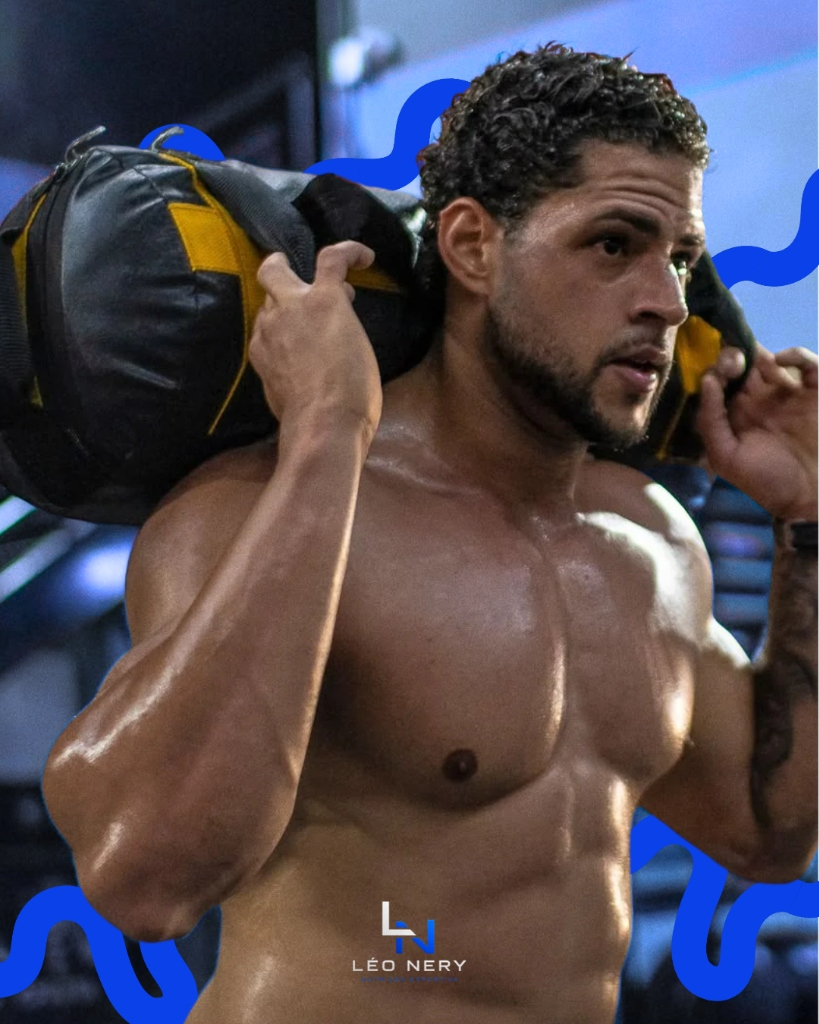
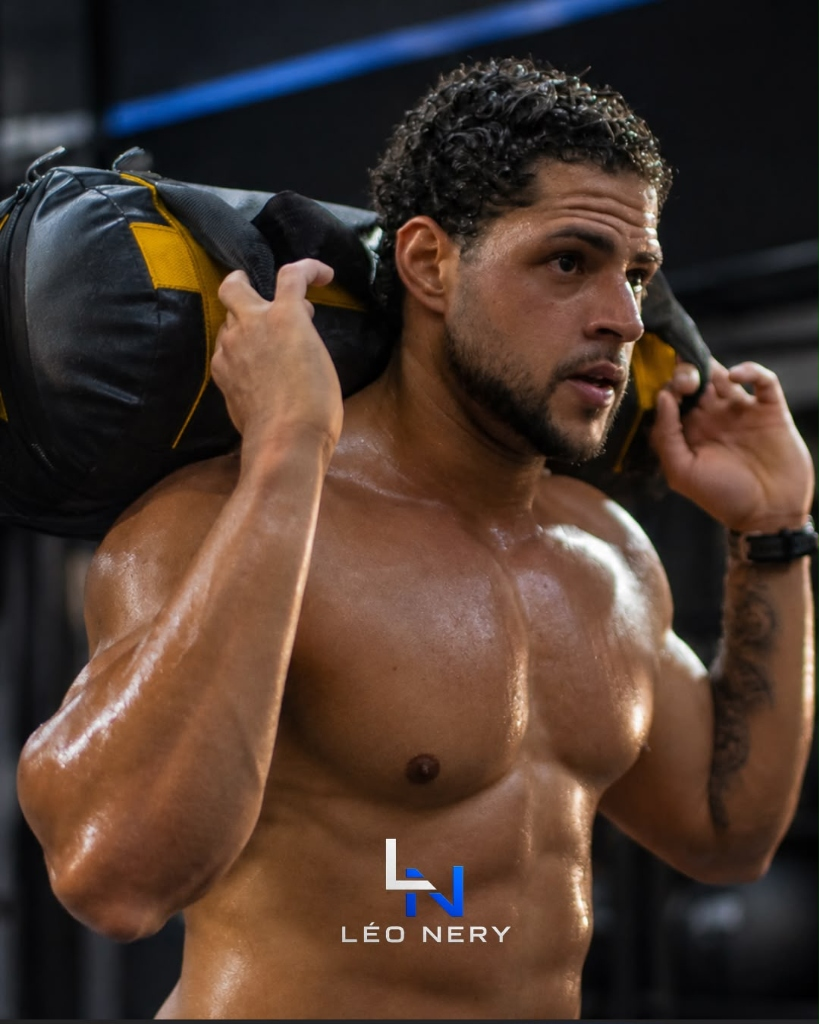
feat(copy,media): atualizar fotos de hero e quem sou eu e migrar tom de voz para atendimento direto

diff --git a/public/index.html b/public/index.html
@@ -30,7 +30,7 @@
     <div class="container header-inner">
       <a class="brand" href="#inicio" aria-label="Léo Nery Nutrição Esportiva, voltar ao início"><img class="brand-logo"
           src="/assets/images/logo.png" width="512" height="512" alt="Léo Nery Nutrição Esportiva"></a>
-      <nav class="desktop-nav" aria-label="Navegação principal"><a href="#sobre">O TIME</a><a
+      <nav class="desktop-nav" aria-label="Navegação principal"><a href="#sobre">QUEM SOU EU</a><a
           href="#metodo">METODOLOGIA</a><a href="#resultados">RESULTADOS</a><a href="#planos">PLANOS</a><a
           href="#faq">DÚVIDAS</a></nav>
       <div class="header-actions"><a class="header-whatsapp" href="#contato" data-whatsapp-context="header"
@@ -39,7 +39,7 @@
       <button class="menu-toggle" type="button" aria-label="Abrir menu" aria-controls="mobile-menu"
         aria-expanded="false"><span></span><span></span></button>
     </div>
-    <nav id="mobile-menu" class="mobile-nav" aria-label="Navegação móvel" hidden><a href="#sobre">O TIME</a><a
+    <nav id="mobile-menu" class="mobile-nav" aria-label="Navegação móvel" hidden><a href="#sobre">QUEM SOU EU</a><a
         href="#metodo">METODOLOGIA</a><a href="#resultados">RESULTADOS</a><a href="#planos">PLANOS</a><a
         href="#faq">DÚVIDAS</a><a href="#contato">FORMULÁRIO DE CONTATO</a><a href="#contato"
         data-whatsapp-context="header" target="_blank" rel="noopener noreferrer">FALAR NO WHATSAPP <span
@@ -84,7 +84,7 @@
       <div class="container about-grid">
         <div class="about-media reveal from-left">
           <div class="image-frame"><img src="/assets/images/sobre-1.jpg" width="819" height="1024"
-              alt="Léo Nery em treino com halteres nos ombros" loading="lazy"><span class="image-index">LÉO NERY /
+              alt="Léo Nery em treino de afundo com halteres nos ombros" loading="lazy"><span class="image-index">LÉO NERY /
               001</span></div>
           <div class="about-badge"><span class="method-step-icon" aria-hidden="true"><svg viewBox="0 0 24 24"
                 class="ic">
@@ -94,7 +94,7 @@
           </div>
         </div>
         <div class="about-copy reveal from-right">
-          <span class="section-kicker">01 / QUEM SOMOS</span>
+          <span class="section-kicker">01 / QUEM SOU EU</span>
           <h2>AJUDO VOCÊ A<br>TRANSFORMAR SEU<br><em>FÍSICO E SUA</em><br>PERFORMANCE<span>.</span></h2>
           <p class="lead">Acompanhamento 100% individualizado e humanizado. Sem terceirização, sem automação. Você fala diretamente comigo durante todo processo!</p>
           <div class="about-pillars">
@@ -111,7 +111,7 @@
                 resposta e evolução.</span>
             </div>
           </div>
-          <a class="btn btn-primary about-cta" href="#metodo">CONHEÇA NOSSA METODOLOGIA <span class="cta-icon"
+          <a class="btn btn-primary about-cta" href="#metodo">CONHEÇA MINHA METODOLOGIA <span class="cta-icon"
               aria-hidden="true"></span></a>
         </div>
       </div>
@@ -124,7 +124,7 @@
             <h2>PASSO A PASSO DE<br><span class="method-heading-muted">COMO TUDO FUNCIONA</span></h2>
           </div>
           <div class="section-head-aside">
-            <p>Veja, de forma resumida, como funciona o nosso acompanhamento.</p><button type="button"
+            <p>Veja, de forma resumida, como funciona o meu acompanhamento.</p><button type="button"
               class="text-button" data-open-assessment>INICIAR PRÉ-AVALIAÇÃO <span class="cta-icon"
                 aria-hidden="true"></span></button>
           </div>
@@ -544,12 +544,11 @@
       <div class="container">
         <div class="plans-heading reveal"><span class="section-kicker">04 / PLANOS E INVESTIMENTO</span>
           <div class="plans-heading-grid">
-            <h2>ESCOLHA O PERÍODO<br>DO SEU <em>ACOMPANHAMENTO.</em></h2>
-            <p>Compare os períodos e escolha aquele que combina com o seu momento. Nossa equipe pode ajudar você a tomar
-              a melhor decisão.</p>
+            <h2>ESCOLHA O PLANO IDEAL<br>PARA SUA <em>EVOLUÇÃO.</em></h2>
+            <p>Valores referente ao acompanhamento on-line.<br>Consultas presenciais solicite o orçamento no meu WhatsApp.</p>
           </div>
         </div>
-        <div class="plan-scroll-hint" aria-hidden="true">DESLIZE PARA COMPARAR →</div>
+        <div class="plan-scroll-hint" aria-hidden="true">COMPARE OS PLANOS E ENCONTRE O IDEAL PARA VOCÊ →</div>
         <div class="plans-grid">
           <article class="plan-card reveal" data-plan-months="1" data-plan-value="R$ 385,00"><span class="method-bignum"
               aria-hidden="true">01</span>
@@ -643,9 +642,9 @@
       <div class="container faq-grid">
         <div class="faq-intro reveal"><span class="section-kicker">05 / DÚVIDAS FREQUENTES</span>
           <h2>DÚVIDAS<br><em>FREQUENTES.</em></h2>
-          <p>Se a sua dúvida não estiver aqui, fale diretamente com nossa equipe.</p>
+          <p>Se a sua dúvida não estiver aqui, fale diretamente comigo.</p>
           <div class="faq-support-card"><span>AINDA COM DÚVIDAS?</span>
-            <p>Converse com nossa equipe pelo WhatsApp antes de escolher seu plano.</p><a class="btn btn-primary"
+            <p>Converse diretamente comigo pelo WhatsApp antes de escolher seu plano.</p><a class="btn btn-primary"
               href="#contato" data-whatsapp-context="faq" target="_blank" rel="noopener noreferrer">FALAR NO WHATSAPP
               <span class="cta-icon" aria-hidden="true"></span></a>
           </div>
@@ -655,8 +654,8 @@
             <h3><button class="faq-question" type="button" aria-expanded="false" aria-controls="faq-answer-1"
                 id="faq-question-1">Como funciona o acompanhamento?<span aria-hidden="true">+</span></button></h3>
             <div class="faq-answer" id="faq-answer-1" role="region" aria-labelledby="faq-question-1" hidden>
-              <p>A equipe começa entendendo seu contexto, sua rotina e seu objetivo. Depois do contato inicial,
-                apresenta o formato disponível e orienta os próximos passos.</p>
+              <p>Começo entendendo seu contexto, sua rotina e seu objetivo. Depois do contato inicial,
+                apresento o formato disponível e vou te orientar nos próximos passos.</p>
             </div>
           </div>
           <div class="faq-item">
@@ -671,7 +670,7 @@
             <h3><button class="faq-question" type="button" aria-expanded="false" aria-controls="faq-answer-3"
                 id="faq-question-3">Em quanto tempo recebo meu plano?<span aria-hidden="true">+</span></button></h3>
             <div class="faq-answer" id="faq-answer-3" role="region" aria-labelledby="faq-question-3" hidden>
-              <p>O prazo depende da modalidade e da confirmação das informações necessárias. Consulte a equipe para
+              <p>O prazo depende da modalidade e da confirmação das informações necessárias. Fale diretamente comigo para
                 receber o prazo aplicável ao seu acompanhamento.</p>
             </div>
           </div>
@@ -679,7 +678,7 @@
             <h3><button class="faq-question" type="button" aria-expanded="false" aria-controls="faq-answer-4"
                 id="faq-question-4">Como devo tirar as fotos?<span aria-hidden="true">+</span></button></h3>
             <div class="faq-answer" id="faq-answer-4" role="region" aria-labelledby="faq-question-4" hidden>
-              <p>Se fotografias forem necessárias, a equipe enviará orientações específicas de enquadramento, iluminação
+              <p>Se fotografias forem necessárias, vou te orientar com instruções específicas de enquadramento, iluminação
                 e privacidade pelo canal de atendimento.</p>
             </div>
           </div>
@@ -687,7 +686,7 @@
             <h3><button class="faq-question" type="button" aria-expanded="false" aria-controls="faq-answer-5"
                 id="faq-question-5">O que está incluso no acompanhamento?<span aria-hidden="true">+</span></button></h3>
             <div class="faq-answer" id="faq-answer-5" role="region" aria-labelledby="faq-question-5" hidden>
-              <p>Os detalhes podem variar conforme o formato disponível. Antes de contratar, confirme com a equipe os
+              <p>Os detalhes podem variar conforme o formato disponível. Antes de contratar, confirme diretamente comigo os
                 itens, canais de suporte e condições do período escolhido.</p>
             </div>
           </div>
@@ -695,23 +694,23 @@
             <h3><button class="faq-question" type="button" aria-expanded="false" aria-controls="faq-answer-6"
                 id="faq-question-6">Os planos são individualizados?<span aria-hidden="true">+</span></button></h3>
             <div class="faq-answer" id="faq-answer-6" role="region" aria-labelledby="faq-question-6" hidden>
-              <p>A proposta é considerar seu contexto, sua disponibilidade e seu objetivo antes de orientar o caminho.
-                Confirme a modalidade adequada diretamente com o time.</p>
+              <p>Minha estratégia de acompanhamento é considerar seu contexto, sua disponibilidade e seu objetivo antes de orientar o caminho.
+                Confirme a modalidade adequada falando diretamente comigo.</p>
             </div>
           </div>
           <div class="faq-item">
             <h3><button class="faq-question" type="button" aria-expanded="false" aria-controls="faq-answer-7"
                 id="faq-question-7">Como são realizados os ajustes?<span aria-hidden="true">+</span></button></h3>
             <div class="faq-answer" id="faq-answer-7" role="region" aria-labelledby="faq-question-7" hidden>
-              <p>A necessidade e a frequência de ajustes dependem do formato contratado e da sua evolução. A equipe
-                explicará o processo antes do início.</p>
+              <p>A necessidade e a frequência de ajustes dependem do formato contratado e da sua evolução. Vou te orientar
+                e explicar todo o processo antes do início.</p>
             </div>
           </div>
           <div class="faq-item">
             <h3><button class="faq-question" type="button" aria-expanded="false" aria-controls="faq-answer-8"
                 id="faq-question-8">Posso renovar meu acompanhamento?<span aria-hidden="true">+</span></button></h3>
             <div class="faq-answer" id="faq-answer-8" role="region" aria-labelledby="faq-question-8" hidden>
-              <p>Converse com a equipe perto do encerramento do período para verificar disponibilidade, continuidade e
+              <p>Fale diretamente comigo perto do encerramento do período para verificar disponibilidade, continuidade e
                 condições vigentes.</p>
             </div>
           </div>
@@ -719,7 +718,7 @@
             <h3><button class="faq-question" type="button" aria-expanded="false" aria-controls="faq-answer-9"
                 id="faq-question-9">Quais são as formas de pagamento?<span aria-hidden="true">+</span></button></h3>
             <div class="faq-answer" id="faq-answer-9" role="region" aria-labelledby="faq-question-9" hidden>
-              <p>PIX e cartão de crédito. Parcelamentos por link podem ter juros; confirme o valor final com a equipe
+              <p>PIX e cartão de crédito. Parcelamentos por link podem ter juros; confirme o valor final diretamente comigo
                 antes de concluir.</p>
             </div>
           </div>
@@ -740,8 +739,7 @@
       <div class="container contact-grid">
         <div class="contact-intro reveal"><span class="section-kicker">06 / FAÇA PARTE</span>
           <h2>PRONTO PARA<br>O PRÓXIMO<br><em>PASSO?</em></h2>
-          <p>Conte um pouco sobre você e seu objetivo. Nossa equipe entrará em contato para ajudar você a dar o próximo
-            passo.</p>
+          <p>Conte um pouco sobre você e seu objetivo. Fale diretamente comigo para dar o próximo passo no meu acompanhamento.</p>
           <div class="contact-note"><span class="note-mark" aria-hidden="true">✦</span> INICIE SUA EVOLUÇÃO COM UMA
             CONVERSA.</div>
           <div class="contact-secondary-actions"><a class="btn btn-outline" href="#contato"
@@ -752,7 +750,7 @@
         </div>
         <div class="contact-form-panel reveal">
           <form id="contact-form" novalidate>
-            <div class="form-heading"><span>FORMULÁRIO DE CONTATO</span><strong>FALE COM O TIME <span
+            <div class="form-heading"><span>FORMULÁRIO DE CONTATO</span><strong>VAMOS COMEÇAR SUA EVOLUÇÃO <span
                   class="heading-mark" aria-hidden="true">✦</span></strong></div>
             <div class="field-row">
               <div class="field"><label for="name">NOME COMPLETO <span>*</span></label><input id="name" name="name"
@@ -865,7 +863,7 @@
           <div class="step-heading"><span>02</span>
             <div>
               <h3>SUA ROTINA</h3>
-              <p>Essas respostas ajudam a equipe a compreender sua disponibilidade.</p>
+              <p>Essas respostas me ajudam a compreender sua disponibilidade.</p>
             </div>
           </div>
           <div class="field"><label for="assessment-frequency">QUANTOS DIAS POR SEMANA? <span>*</span></label><select
@@ -888,7 +886,7 @@
           <div class="step-heading"><span>03</span>
             <div>
               <h3>SEU CONTATO</h3>
-              <p>Ao enviar, seus dados serão registrados para a equipe responder à pré-avaliação.</p>
+              <p>Ao enviar, seus dados serão registrados para eu responder à sua pré-avaliação.</p>
             </div>
           </div>
           <div class="field-row">

diff --git a/public/assets/js/site-config.js b/public/assets/js/site-config.js
@@ -14,7 +14,7 @@
   const messages = Object.freeze({
     header: 'Olá! Conheci o trabalho do Léo Nery pelo site e gostaria de saber como começar.',
     hero: 'Olá! Quero conhecer o acompanhamento do Léo Nery e entender qual opção combina comigo.',
-    faq: 'Olá! Ainda tenho dúvidas sobre o acompanhamento e gostaria de conversar com a equipe.',
+    faq: 'Olá! Ainda tenho dúvidas sobre o acompanhamento e gostaria de conversar com você.',
     contact: 'Olá! Prefiro conversar diretamente pelo WhatsApp sobre o acompanhamento.',
     footer: 'Olá! Vim pelo site do Léo Nery e gostaria de mais informações.',
     floating: 'Olá! Vim pelo site do Léo Nery e gostaria de conversar.',
